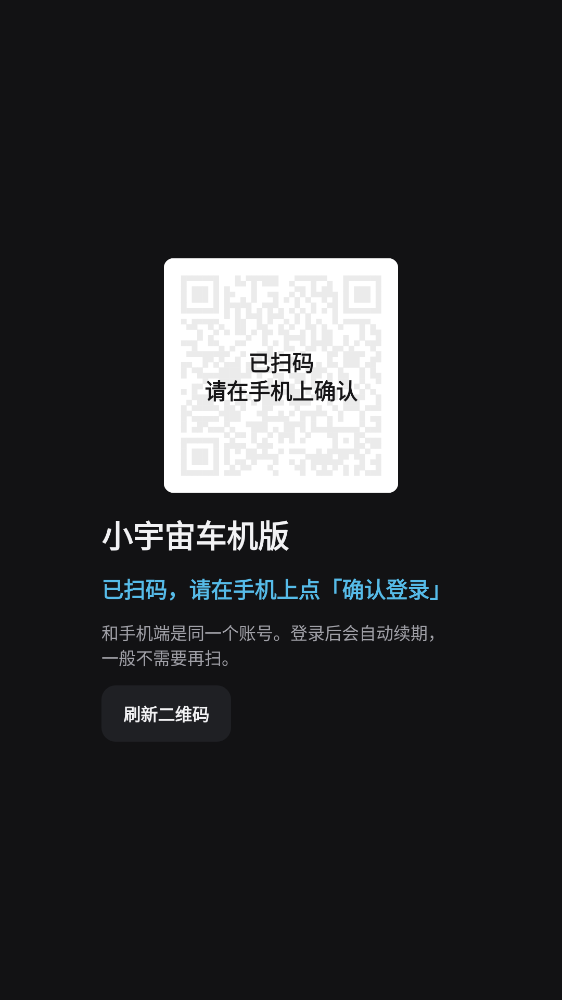
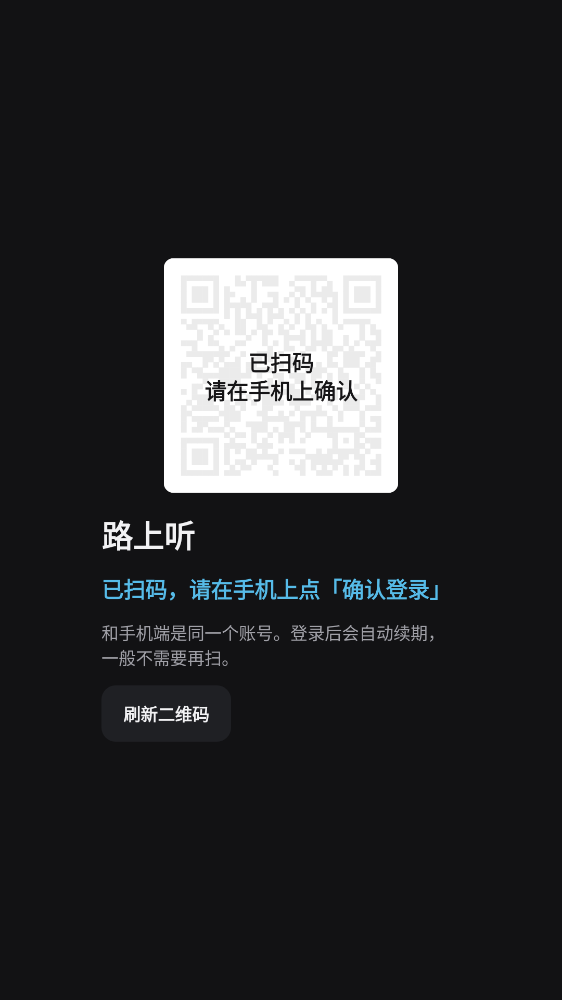
feat(ui): rename launcher label to avoid voice name matching
The voice assistant answered "not supported" for the old name, likely
because it contains a known media app name and is intercepted before
the generic launcher-label match. Use a neutral name to test that.

Changed region(s): [[0.1815, 0.496, 0.5142, 0.558]]

diff --git a/app/src/main/java/com/ryan/xyzcar/ui/screens/LoginScreen.kt b/app/src/main/java/com/ryan/xyzcar/ui/screens/LoginScreen.kt
@@ -110,7 +110,7 @@ fun LoginContent(qr: LoginQr?, state: QrState, error: String?, onRefresh: () -> 
                 verticalArrangement = Arrangement.spacedBy(20.dp),
                 modifier = Modifier.widthIn(min = 280.dp, max = 460.dp).align(Alignment.CenterVertically),
             ) {
-                Text("小宇宙车机版", style = MaterialTheme.typography.headlineLarge)
+                Text(androidx.compose.ui.res.stringResource(com.ryan.xyzcar.R.string.app_name), style = MaterialTheme.typography.headlineLarge)
                 Text(
                     when (state) {
                         QrState.WAITING -> "打开手机上的小宇宙 App，扫描左侧二维码登录"
